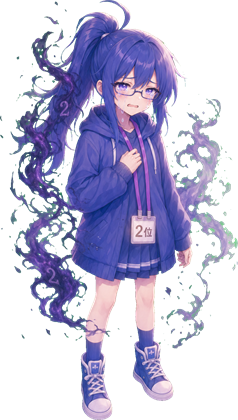
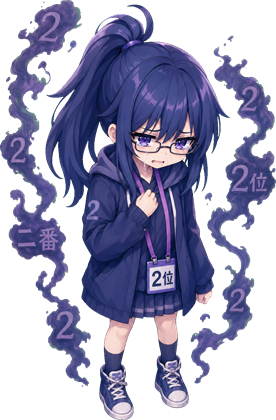
Wire clear-time HUD/records and stage tuning remainder
- DiffSelect/GameManager/Hud/Shop: clear-time records, HUD timer, save plumbing tail
- StageRei/DemoPilot: stage flow adjustments
- add Records/CameoHit/MurkVignette .uid files

diff --git a/src/Hud.cs b/src/Hud.cs
@@ -72,6 +72,20 @@ public partial class Hud : CanvasLayer
     private int _typePrevRevealed;      // 直前フレームの revealed 整数部（新しく出た文字を差分検出）
     private const int TypeStride = 2;   // 何文字に1回鳴らすか（毎文字は鳴らしすぎ）
 
+    // ───────── 立ち絵の生命感（吉田明彦：常時の微細な生命感／見た目のみ・進行に無影響）─────────
+    // 呼吸：話者の立ち絵だけを Sin で上下に微細に揺らす。やりすぎない。
+    private const float BreathPeriod = 3.6f;   // 呼吸周期（秒）
+    private const float BreathAmp    = 1.6f;    // 振幅（±px・設計1280x720座標）
+    // 表情クロスフェード：face テクスチャ切替の瞬間、旧→新を短時間でα合成。
+    private const float PortraitFade = 0.12f;   // クロスフェード秒
+    private Texture2D? _dlgPortraitPrev;        // 直前の立ち絵（フェードアウト側）
+    private double _portraitFadeT;              // 0..PortraitFade を減算（>0 の間だけ旧絵を重ねる）
+    // うなずき：タイプ送り完了の瞬間に立ち絵を 1px ほど下げて戻す相づち。
+    private const float NodAmp  = 1.4f;         // うなずき深さ（px）
+    private const float NodTime = 0.26f;        // うなずき1往復の所要（秒）
+    private double _nodT;                       // 0..NodTime を減算（>0 の間だけうなずく）
+    private bool _revealWasDone;                // 直前フレームでタイプ送りが完了していたか（完了の立ち上がり検出）
+
     // やさしさゲージ（HUD表示用）
     private double _overloadToast;
     private float _kindPulse;
@@ -139,6 +153,15 @@ public partial class Hud : CanvasLayer
             }
         }
 
+        // 立ち絵の生命感タイマー（見た目のみ・進行に無影響）。
+        if (_portraitFadeT > 0) _portraitFadeT -= delta;        // 表情クロスフェードの残り
+        if (_nodT > 0) _nodT -= delta;                          // うなずきの残り
+        // うなずき：その行のタイプ送りが「いま完了した瞬間」だけ1回トリガ。
+        bool revealDone = _messageTimer > 0 && _dlgIsDialog && _dlgPortrait != null
+                          && _dlgText.Length > 0 && _dlgRevealed >= _dlgText.Length;
+        if (revealDone && !_revealWasDone) _nodT = NodTime;
+        _revealWasDone = revealDone;
+
         if (_messageTimer > 0)
         {
             if (!HoldBubble) _messageTimer -= delta;
@@ -191,6 +214,7 @@ public partial class Hud : CanvasLayer
     private void ClearDialog()
     {
         _dlgText = ""; _dlgSpeaker = ""; _dlgPortrait = null; _dlgRevealed = 0;
+        _dlgPortraitPrev = null; _portraitFadeT = 0; _nodT = 0; _revealWasDone = false;
     }
 
     // ───────── テキストボックスの行の種類 ─────────
@@ -234,7 +258,22 @@ public partial class Hud : CanvasLayer
         // 新しい行＝送り音の差分検出をリセット。話者は既定で無音（ナレ）。
         // LineKind を取る ShowDialog だけが直後に _dlgKind を上書きする。
         _typePrevRevealed = 0; _dlgKind = LineKind.Narration;
-        _dlgPortrait = string.IsNullOrEmpty(portrait) ? null : ResourceLoader.Load<Texture2D>(portrait);
+        Texture2D? next = string.IsNullOrEmpty(portrait) ? null : ResourceLoader.Load<Texture2D>(portrait);
+        // 表情クロスフェード：face テクスチャが実際に変わる瞬間だけ、旧絵を短時間重ねて移ろわせる。
+        // 同一立ち絵の続き（同じ話者の連続行）はクロスフェードせず、無からの登場/退場もハード切替で十分。
+        if (next != null && _dlgPortrait != null && next != _dlgPortrait)
+        {
+            _dlgPortraitPrev = _dlgPortrait;
+            _portraitFadeT = PortraitFade;
+        }
+        else
+        {
+            _dlgPortraitPrev = null;
+            _portraitFadeT = 0;
+        }
+        _dlgPortrait = next;
+        // 新しい行：うなずきは未完了から仕切り直し。
+        _nodT = 0; _revealWasDone = false;
     }
 
     public void HideBubble() { _messageTimer = 0; ClearDialog(); }
@@ -406,10 +445,10 @@ public partial class Hud : CanvasLayer
         UiKit.Text(ci, UiKit.Mono, new Vector2(x + 14, y + 12), "SCORE", 11, new Color("f0d98a"));
         UiKit.Text(ci, UiKit.Mono, new Vector2(x + w - 14 - UiKit.TextW(UiKit.Mono, score.ToString("000,000"), 22), y + 6), score.ToString("000,000"), 22, new Color("f0d98a"));
 
-        // テレメトリ・チップ（イ＝インプレ / コンボ or フォロワー）
+        // テレメトリ・チップ（♥＝浄化した心 / コンボ or フォロワー）
         long imp = _game?.RunImpression ?? 0;
         int combo = _game?.Combo ?? 0;
-        string c1 = "イ " + UiKit.Abbrev(imp);
+        string c1 = "♥ " + UiKit.Abbrev(imp);
         string c2 = combo >= 2 ? $"× {combo}" : UiKit.Abbrev(_game?.Followers ?? 0);
         float cy = y + 44;
         float c2w = 30 + UiKit.TextW(UiKit.Mono, c2, 11);
@@ -427,11 +466,17 @@ public partial class Hud : CanvasLayer
     private void DrawTimer(HudCanvas ci)
     {
         string t = UiKit.FormatTime(_elapsed);
-        float w = 132, x = 1280 - 22 - w, y = 90, h = 28;
+        // 幅は内容から動的に算出：丸(28) + "TIME" + 余白(12) + 値 + 右余白(14)。
+        // 分が2桁(例 12:34.56)に伸びても「TIME」と数字が重ならず、右端は従来位置のまま左へ伸びる。
+        float labelW = UiKit.TextW(UiKit.Mono, "TIME", 11);
+        float valW = UiKit.TextW(UiKit.Mono, t, 17);
+        float h = 28;
+        float w = 28 + labelW + 12 + valW + 14;
+        float x = 1280 - 22 - w, y = 90;
         UiKit.Box(ci, new Rect2(x, y, w, h), new Color(16 / 255f, 14 / 255f, 26 / 255f, 0.6f), 12f, new Color(UiKit.Info, 0.4f), 1f);
         ci.DrawCircle(new Vector2(x + 16, y + h / 2f), 4f, UiKit.Info);
         UiKit.Text(ci, UiKit.Mono, new Vector2(x + 28, y + 8), "TIME", 11, UiKit.Text2);
-        UiKit.Text(ci, UiKit.Mono, new Vector2(x + w - 14 - UiKit.TextW(UiKit.Mono, t, 17), y + 5), t, 17, UiKit.PurifyHi);
+        UiKit.Text(ci, UiKit.Mono, new Vector2(x + w - 14 - valW, y + 5), t, 17, UiKit.PurifyHi);
     }
 
     private void DrawBossCard(HudCanvas ci)
@@ -583,8 +628,8 @@ public partial class Hud : CanvasLayer
         float contam = Mathf.Clamp(_game?.Contamination ?? 0f, 0f, 1f);
         float x = 22, y = 162, w = 190, h = 48;
         UiKit.Box(ci, new Rect2(x, y, w, h), new Color(16 / 255f, 14 / 255f, 26 / 255f, 0.5f), 11f, new Color(UiKit.Purify, 0.26f), 1f);
-        // 浄化した心 ◯/3（救った人数＝マクロ目標）
-        UiKit.Text(ci, UiKit.ZenBold, new Vector2(x + 12, y + 8), "浄化した心", 11, UiKit.Info);
+        // 救った人 ◯/3（=HeartsSaved＝到達度マクロ目標）。通貨「浄化した心」と名前で分離する。
+        UiKit.Text(ci, UiKit.ZenBold, new Vector2(x + 12, y + 8), "救った人", 11, UiKit.Info);
         for (int i = 0; i < total; i++)
         {
             Color c = i < saved ? UiKit.Purify : new Color(UiKit.Purify, 0.20f);
@@ -706,11 +751,31 @@ public partial class Hud : CanvasLayer
         float x = 40, y = 540, w = 1200, h = 150;
         UiKit.Box(ci, new Rect2(x, y, w, h), new Color(0.05f, 0.04f, 0.09f, 0.95f), 16f, new Color(_dlgSpeakerCol, 0.5f), 1.4f);
         float textX = x + 36;
-        // 立ち絵（あれば左に）
+        // 立ち絵（あれば左に）。常時の微細な生命感：呼吸（上下揺れ）＋表情クロスフェード＋うなずき。
+        // ここで描く立ち絵＝いま発話中の話者なので、揺れは「話者だけ」に自然に閉じる。
         if (_dlgPortrait != null)
         {
             float ph = h - 8, pw = ph * _dlgPortrait.GetWidth() / Mathf.Max(1, _dlgPortrait.GetHeight());
-            ci.DrawTextureRect(_dlgPortrait, new Rect2(x + 10, y + 4, pw, ph), false);
+            float px = x + 10;
+            // 呼吸：ゆっくりした上下のサイン。基準位置 y+4 を中心に ±BreathAmp。
+            float breath = BreathAmp * Mathf.Sin((float)_t * (Mathf.Tau / BreathPeriod));
+            // うなずき：完了直後に下→戻る。半周期 Sin の山（下が＋）。タイプ送り完了の相づち。
+            float nod = 0f;
+            if (_nodT > 0f)
+                nod = NodAmp * Mathf.Sin((float)((NodTime - _nodT) / NodTime) * Mathf.Pi);
+            float py = y + 4 + breath + nod;
+            // 表情クロスフェード：旧絵をフェードアウトしつつ新絵をフェードイン（同じ揺れ位置で重ねる）。
+            if (_portraitFadeT > 0f && _dlgPortraitPrev != null)
+            {
+                float f = Mathf.Clamp((float)(_portraitFadeT / PortraitFade), 0f, 1f); // 1→0
+                float pwOld = ph * _dlgPortraitPrev.GetWidth() / Mathf.Max(1, _dlgPortraitPrev.GetHeight());
+                ci.DrawTextureRect(_dlgPortraitPrev, new Rect2(px, py, pwOld, ph), false, new Color(1f, 1f, 1f, f));
+                ci.DrawTextureRect(_dlgPortrait, new Rect2(px, py, pw, ph), false, new Color(1f, 1f, 1f, 1f - f));
+            }
+            else
+            {
+                ci.DrawTextureRect(_dlgPortrait, new Rect2(px, py, pw, ph), false);
+            }
             textX = x + 10 + pw + 20;
         }
         if (_dlgSpeaker.Length > 0)

diff --git a/src/Shop.cs b/src/Shop.cs
@@ -131,7 +131,7 @@ public partial class Shop : Node2D
         var d = GameManager.GetUpgradeDef(id);
         if (d == null) return;
         if (lv >= d.MaxLevel) { Audio.Instance?.PlayUiDeny(); Toast("すでに最大です", UiKit.Text4); return; }
-        if (!(_game?.CanPurchase(id) ?? false)) { Audio.Instance?.PlayUiDeny(); Toast("インプレッションが足りません", new Color("ef9a9a")); return; }
+        if (!(_game?.CanPurchase(id) ?? false)) { Audio.Instance?.PlayUiDeny(); Toast("浄化した心が足りません", new Color("ef9a9a")); return; }
         if (_game!.TryPurchase(id))
         {
             Audio.Instance?.PlayUiBuy(); // 購入成功＝達成音
@@ -216,7 +216,7 @@ public partial class Shop : Node2D
         float pillX = W - PadX - pillW, pillY = 30f;
         UiKit.Box(this, new Rect2(pillX, pillY, pillW, 44f), new Color(232 / 255f, 196 / 255f, 90 / 255f, 0.1f), 14f, new Color(UiKit.Gold, 0.4f), 1f);
         DrawCircle(new Vector2(pillX + 22, pillY + 22), 8f, UiKit.Gold);
-        UiKit.Text(this, UiKit.Zen, new Vector2(pillX + 38, pillY + 14), "インプレッション", 12, new Color("f0d98a"));
+        UiKit.Text(this, UiKit.Zen, new Vector2(pillX + 38, pillY + 14), "浄化した心", 12, new Color("f0d98a"));
         if (popA > 0) UiKit.RadialGlow(this, new Vector2(pillX + pillW - 24 - numW / 2f, pillY + 22), 50f, UiKit.Gold, 0.45f * popA);
         Color impCol = new Color("f0d98a").Lerp(UiKit.White, popA);
         UiKit.Text(this, UiKit.Mono, new Vector2(pillX + pillW - 18 - numW, pillY + 22 - impSize / 2f - popA * 1.5f), impS, impSize, impCol);
@@ -385,7 +385,8 @@ public partial class Shop : Node2D
             bool maxed = lv >= maxLv;
             bool can = !maxed && (_game?.CanPurchase(up) ?? false);
             string label = locked ? "Z 解放" : (maxed ? "MAX" : "Z 強化");
-            string cost = maxed ? "" : "◈" + (_game?.GetUpgradeCost(up) ?? 0).ToString("N0");
+            // コスト＝「浄化した心」。心アイコン(♥)＋数値で示す（◈から差し替え）。
+            string cost = maxed ? "" : "♥" + (_game?.GetUpgradeCost(up) ?? 0).ToString("N0");
             Color bg = can ? UiKit.Info : new Color(1, 1, 1, 0.05f);
             Color tx = can ? UiKit.White : (maxed ? new Color("c9b6ef") : UiKit.Text4);
             UiKit.Box(this, new Rect2(buyX, y, buyW, 36f), bg, 10f, can ? new Color(0, 0, 0, 0) : new Color(1, 1, 1, 0.12f), can ? 0f : 1f);
@@ -541,7 +542,7 @@ public partial class Shop : Node2D
             }
             else
             {
-                string cost = "◈" + (_game?.GetUpgradeCost(id) ?? 0).ToString("N0");
+                string cost = "♥" + (_game?.GetUpgradeCost(id) ?? 0).ToString("N0"); // 浄化した心（◈から差し替え）
                 UiKit.Box(this, new Rect2(bx, y + 9, bw, 32f), can ? new Color("f0d98a") : new Color(1, 1, 1, 0.05f), 9f,
                     can ? new Color(0, 0, 0, 0) : new Color(1, 1, 1, 0.12f), can ? 0f : 1f);
                 UiKit.Text(this, UiKit.Mono, new Vector2(bx, y + 16), cost, 14, can ? new Color("2a1e08") : UiKit.Text4, HorizontalAlignment.Center, bw);

diff --git a/src/StageRei.cs b/src/StageRei.cs
@@ -109,11 +109,13 @@ public partial class StageRei : Node
     // T5 浄化（道中の最初の1体に同期して割り込み）
     private static readonly (int who, string text, string face)[] TutPurify =
         { (1, "あの“声”、周りの板を全部祓えば本体に光が届きます。撃ち込みなさい。", SMina) };
-    // 浄化の“ごほうび”（救った証＝インプレ→ショップ強化）と、その代償（汚染↑）を1ビートで伝える。
+    // 浄化の“ごほうび”（浄化した心＝通貨→ショップ強化）と、その代償（汚染↑→やさしさが鈍る）を1概念1ビートで。
     private static readonly (int who, string text, string face)[] TutPurifyOk =
-        { (1, "その調子。浄化するたび“救った証”が積もって、ハブのショップで わたくしを強化できます。", SMina),
+        { (1, "その調子。浄化するたび“浄化した心”が貯まって、ハブのショップで わたくしを強化できます。", SMina),
+          (1, "“救った人 ◯/3”はゴールの目印。心は強化に使うお金——別物ですよ。", SMina),
           (0, "……ただ、祓うほど左下の“汚染ゲージ”がじわっと上がる。ミナの光が、少しずつ濁るんだ。", SGentle),
-          (1, "ここではほんのわずか。でも、奥へ行くほど重くなる。……まあ、今は気にせず行きましょう。", SMina) };
+          (0, "濁るほど、かすりや浄化で満ちる“やさしさ”が、ほんの少しずつ届きにくくなる。", SGentle),
+          (1, "ここではまだ無痛。でも奥へ行くほど重くなる。……今は気にせず行きましょう。", SMina) };
 
     // 道中突入の小話（世界観：レイを苦しめるのは“世界中の声”）。道中ザコ戦の前に出す。
     private static readonly (int who, string text, string face)[] Mid =

diff --git a/src/GameManager.cs b/src/GameManager.cs
@@ -247,7 +247,7 @@ public partial class GameManager : Node
         new() { Id = "bomb_count",    Name = "ボム所持",   Desc = "初期ボム数+1",            MaxLevel = 3, BaseCost = 450,  CostMul = 1.45f },
         new() { Id = "bomb_power",    Name = "ボム威力",   Desc = "ボムの一掃範囲UP",        MaxLevel = 3, BaseCost = 350,  CostMul = 1.4f },
         new() { Id = "max_life",      Name = "最大♥",      Desc = "ライフ上限+1",            MaxLevel = 3, BaseCost = 700,  CostMul = 1.6f },
-        new() { Id = "imp_mult",      Name = "インプレ倍率", Desc = "獲得インプレUP",        MaxLevel = 4, BaseCost = 300,  CostMul = 1.45f },
+        new() { Id = "imp_mult",      Name = "浄化倍率",   Desc = "獲得する浄化した心UP",    MaxLevel = 4, BaseCost = 300,  CostMul = 1.45f },
         new() { Id = "fol_gain",      Name = "拡散力",     Desc = "フォロワー獲得効率UP",    MaxLevel = 3, BaseCost = 300,  CostMul = 1.45f },
         new() { Id = "combo_hold",    Name = "コンボ持続", Desc = "コンボ猶予を延長",        MaxLevel = 3, BaseCost = 200,  CostMul = 1.4f },
         new() { Id = "contam_resist", Name = "汚染耐性",   Desc = "汚染の上昇を抑え、やさしさの鈍りを緩和", MaxLevel = 3, BaseCost = 650,  CostMul = 1.55f },

diff --git a/src/DemoPilot.cs b/src/DemoPilot.cs
@@ -66,7 +66,6 @@ public partial class DemoPilot : Node
     private GameManager.Diff _diff = GameManager.Diff.Easy; // 既定は安全運転
     private double _seconds = DefaultSeconds;
     private double _t;
-    private double _wordCamT; // [一時/デバッグ] 言葉弾スクショ用タイマー
 
     private GameManager _game = null!;
 
@@ -132,20 +131,6 @@ public partial class DemoPilot : Node
     {
         var player = GetTree().GetFirstNodeInGroup("player") as Player;
         bool talking = Hud.BubblePaused;
-
-        // [一時/デバッグ] 言葉弾の当たり点確認用：ゆっくり降る言葉弾を定期的に出す。
-        if (player != null && !talking)
-        {
-            _wordCamT += delta;
-            if (_wordCamT >= 0.5)
-            {
-                int k = (int)(_t / 0.5);
-                _wordCamT = 0;
-                var pool = GetNodeOrNull<BulletPool>("/root/Pool");
-                string[] ws = { "努力は天才に勝てない", "届かない", "どうせ二番", "私を見て" };
-                pool?.Spawn(new Vector2(70f + (k * 53 % 240), -6f), new Vector2(0f, 28f), isEnemy: true, 3f, 1)?.SetWord(ws[k % ws.Length]);
-            }
-        }
 
         float bestGap = 9999f;
         if (player == null || talking)

diff --git a/src/DiffSelect.cs b/src/DiffSelect.cs
@@ -142,7 +142,7 @@ public partial class DiffSelect : Node2D
         UiKit.Text(this, UiKit.Mono, new Vector2(padX, top + 8), _stageTag, 13, UiKit.Info);
         float tagW = UiKit.TextW(UiKit.Mono, _stageTag, 13);
         UiKit.Text(this, UiKit.ZenBlack, new Vector2(padX + tagW + 16, top), $"{_diveName} へダイブ", 28, UiKit.White);
-        UiKit.Text(this, UiKit.Zen, new Vector2(padX, top + 4), "難易度で「弾の数」が変わります（インプレ報酬も変動）", 14, UiKit.Text3,
+        UiKit.Text(this, UiKit.Zen, new Vector2(padX, top + 4), "難易度で「弾の数」が変わります（浄化した心の報酬も変動）", 14, UiKit.Text3,
             HorizontalAlignment.Right, W - padX * 2);
         DrawRect(new Rect2(padX, top + 44, W - padX * 2, 1f), new Color(1, 1, 1, 0.1f));
 
